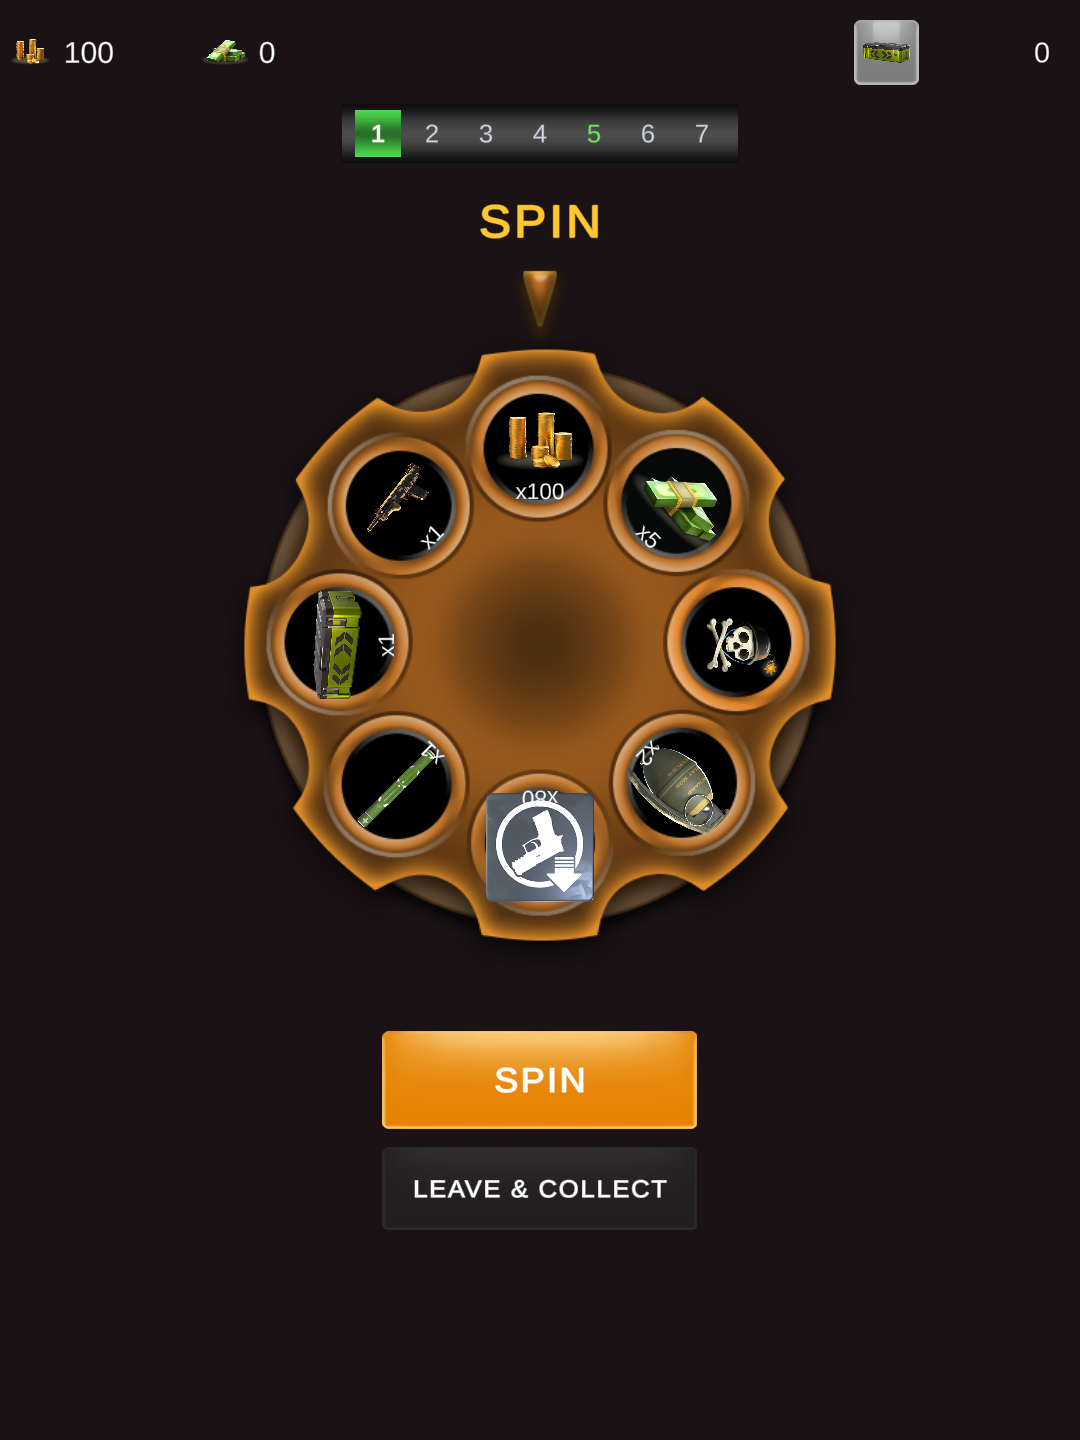
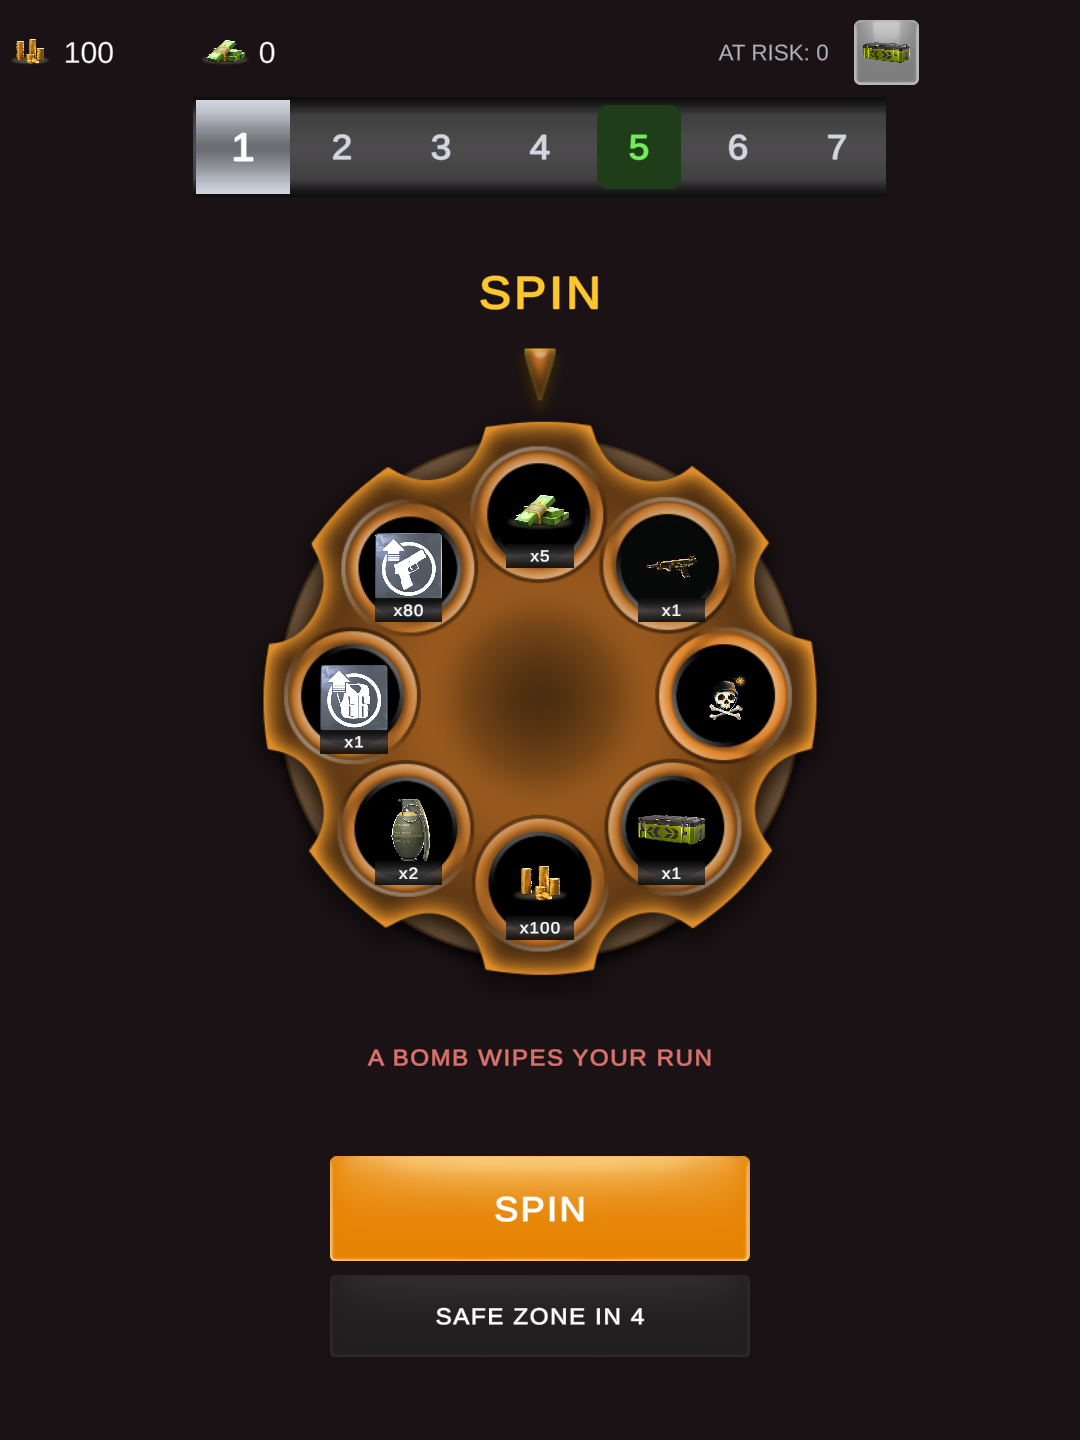
Refresh the screenshots and document the UX pass
Captures redone at 20:9 / 16:9 / 4:3 from the rebuilt scene.

Changed region(s): [[0.1528, 0.0312, 0.825, 0.6875], [0.3056, 0.7188, 0.7028, 0.9375]]

diff --git a/README.md b/README.md
@@ -25,6 +25,24 @@ or **super** (every 30th) zone.
 - **Bomb** wipes the run — *revive* with gold (or ad), or *restart* from zone 1.
 - **Sound**: SFX for spin, win, bomb, cash-out and UI clicks.
 
+## UX & game feel
+
+The risk decision the game is built on is only interesting if the player can see it, so
+every rule the wheel enforces is stated on screen rather than implied:
+
+- The **risk line** under the cylinder reads `A BOMB WIPES YOUR RUN`, or `NO BOMB — THIS
+  SPIN IS FREE` on a safe/super zone, and the zone title is tinted to match.
+- The locked **LEAVE** button counts down (`SAFE ZONE IN 3`) instead of just greying out —
+  the every-5th-zone rule is invisible to a first-time player otherwise.
+- **AT RISK** turns amber the moment the run has something to lose.
+
+Feedback is layered and brief: the cylinder **winds back** before it launches, the indicator
+is **knocked aside** by each chamber that passes (so you can read how fast it is still
+travelling), the chamber it lands on **pops**, and a bomb **shakes the screen** on decaying
+trauma. Reward and loss screens hold off for a beat so the landing is visible before they
+cover it, then **fade and spring in**; balances **count up** rather than snapping. Every
+button squashes on press.
+
 ## Architecture
 
 A strictly layered, SOLID design. The lower layers compile and unit-test with **no UI**.
